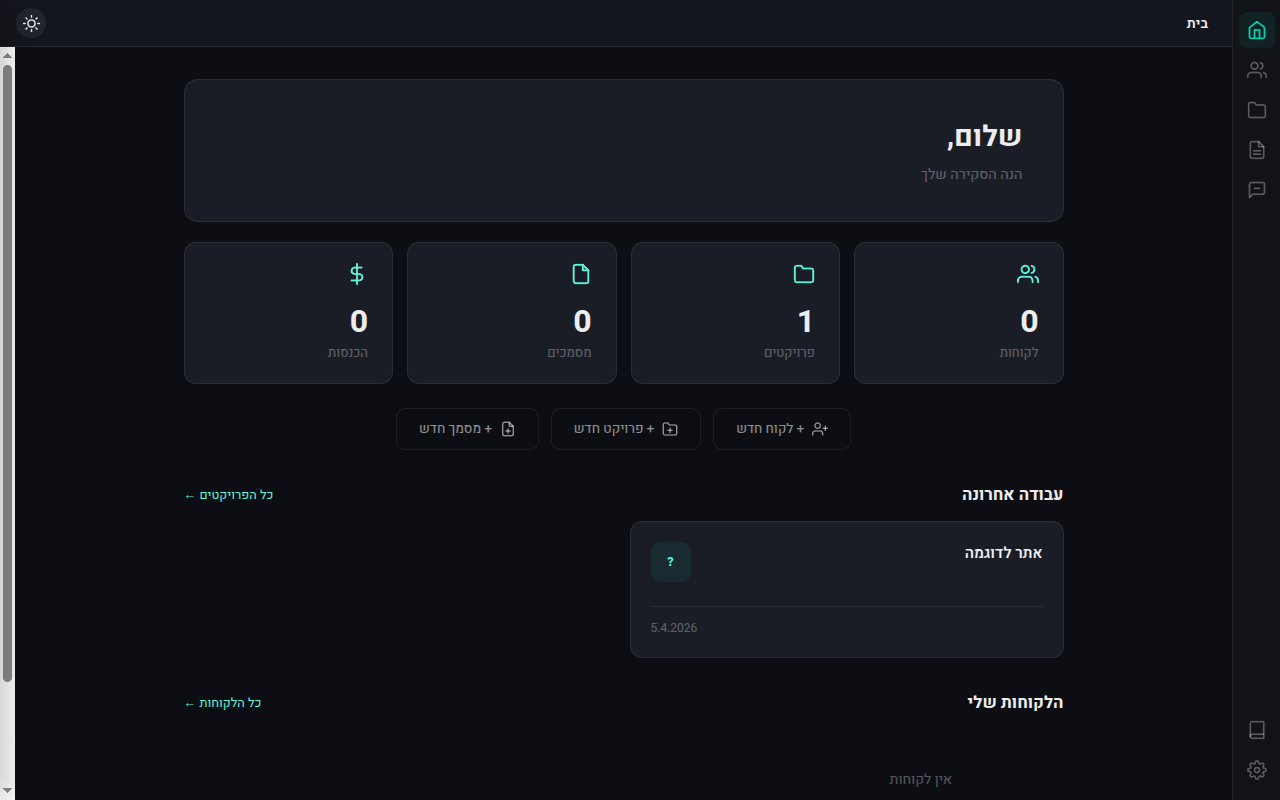
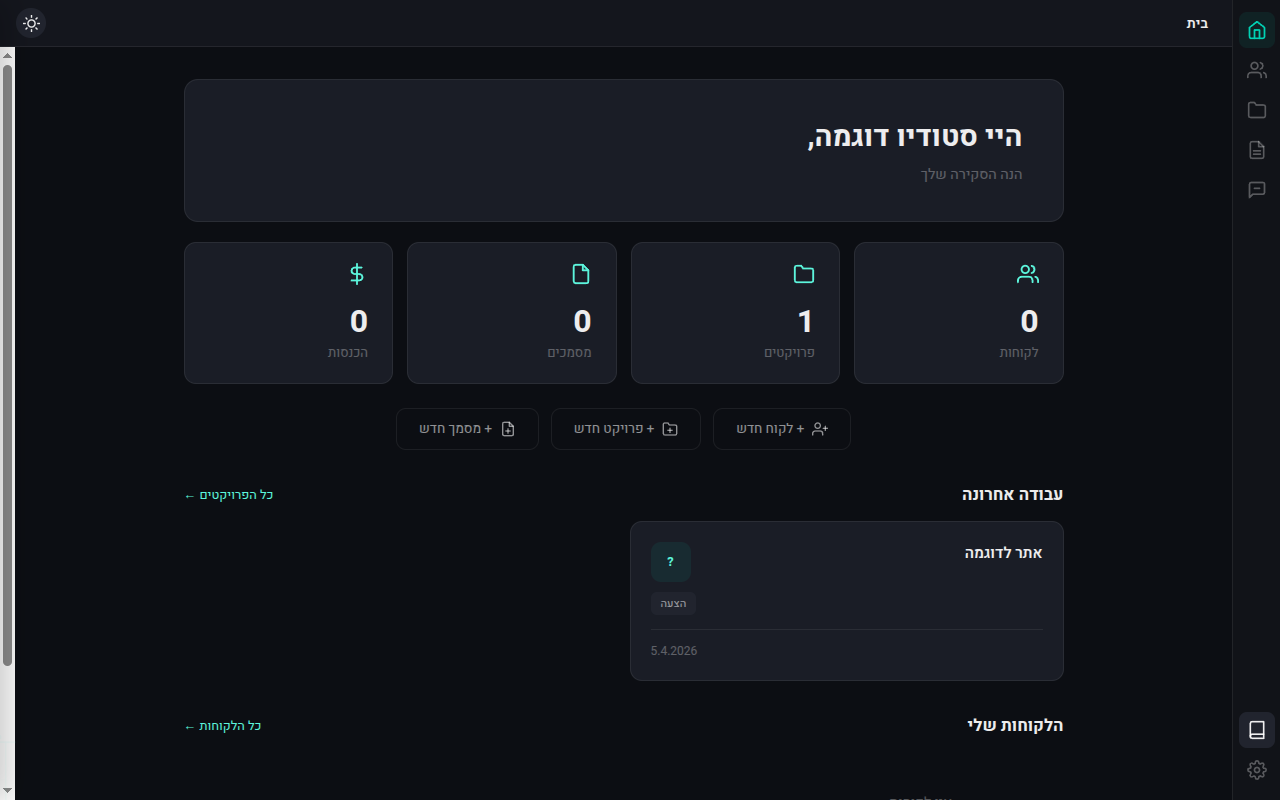
Fix hero dead space + distinct screenshots + cache bust
- Added cache-control meta tags to force fresh loads
- Hero badge margin-top: 0 explicitly
- Two genuinely different screenshots: builder top view + pricing view
- Dashboard screenshot with sidebar visible

diff --git a/docs/index.html b/docs/index.html
@@ -11,6 +11,8 @@
   <meta property="og:url" content="https://endlessblink.github.io/contractor/">
   <meta property="og:image" content="https://endlessblink.github.io/contractor/contractor-cover.png">
   <meta name="twitter:card" content="summary_large_image">
+  <meta http-equiv="Cache-Control" content="no-cache, no-store, must-revalidate">
+  <meta http-equiv="Pragma" content="no-cache">
   <link rel="preconnect" href="https://fonts.googleapis.com">
   <link rel="preconnect" href="https://fonts.gstatic.com" crossorigin>
   <link href="https://fonts.googleapis.com/css2?family=Heebo:wght@300;400;500;600;700;800;900&display=swap" rel="stylesheet">
@@ -272,7 +274,8 @@
       border: 1px solid rgba(0, 210, 180, 0.3);
       border-radius: 100px;
       background: rgba(0, 210, 180, 0.06);
-      margin-bottom: 32px;
+      margin-top: 0;
+      margin-bottom: 24px;
     }
 
     .hero-title {